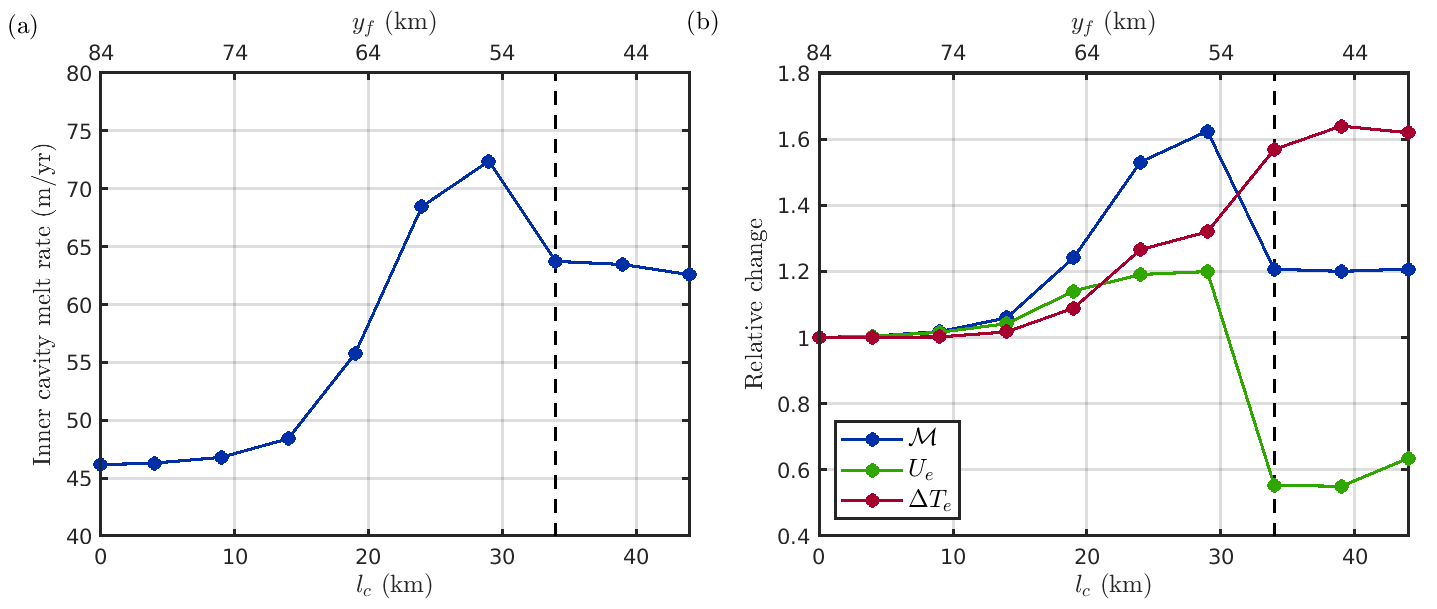
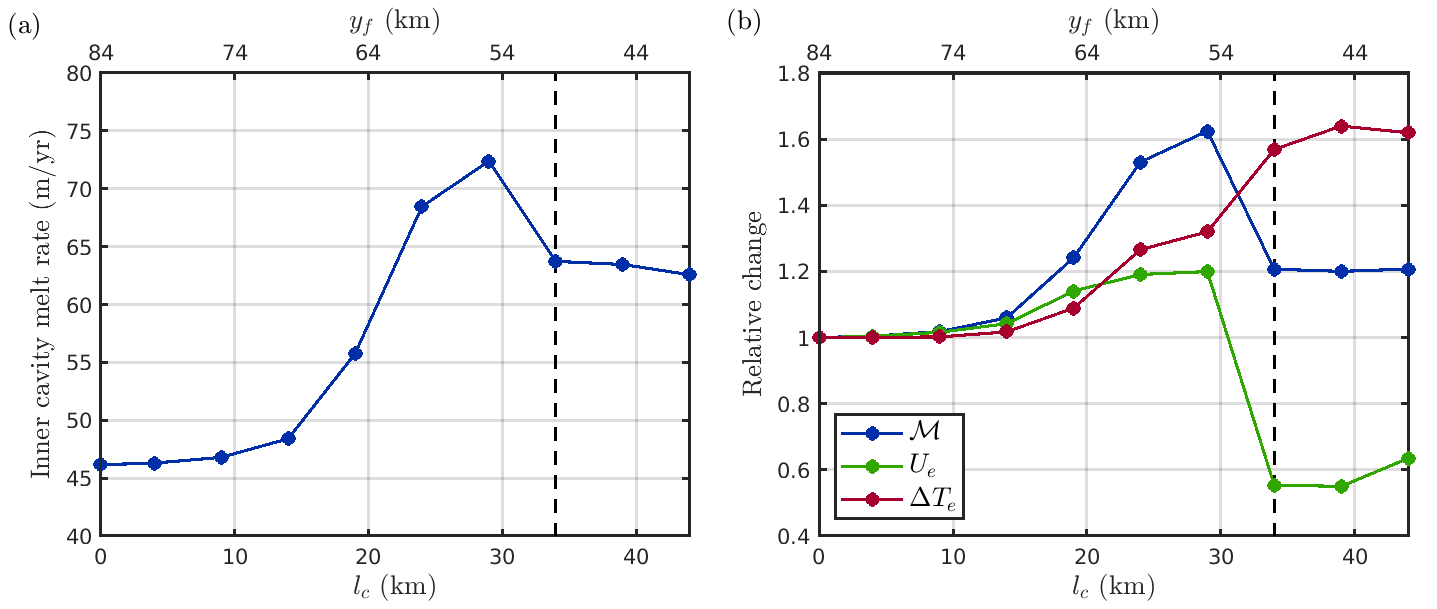
fig4

diff --git a/make_figures/make_figure4.m b/make_figures/make_figure4.m
@@ -16,8 +16,8 @@ save_flag = 0;
 %
 addpath("plot_tools");
 plot_defaults
-label_size = 12;
-ax_fontsize = 12;
+label_size = 13;
+ax_fontsize = 13;
 figure(1); clf; 
 fig = gcf; fig.Position(3:4) = [920, 390];
 
@@ -238,7 +238,7 @@ ylabel('Relative change', 'Interpreter', 'latex', 'FontSize', ax_fontsize)
 xlim([0, 84 - 40]);
 legend({"$\mathcal{M}$", "$U_e$", "$\Delta T_e$"}, 'location', 'southwest','interpreter', 'latex', 'FontSize', ax_fontsize)
 
-txb = text(-10,1.95, '(b)', 'FontSize', ax_fontsize, 'Interpreter', 'latex');
+txb = text(-7,1.95, '(b)', 'FontSize', ax_fontsize, 'Interpreter', 'latex');
 
 %add second axis with yf on
 axb2 = axes; 
